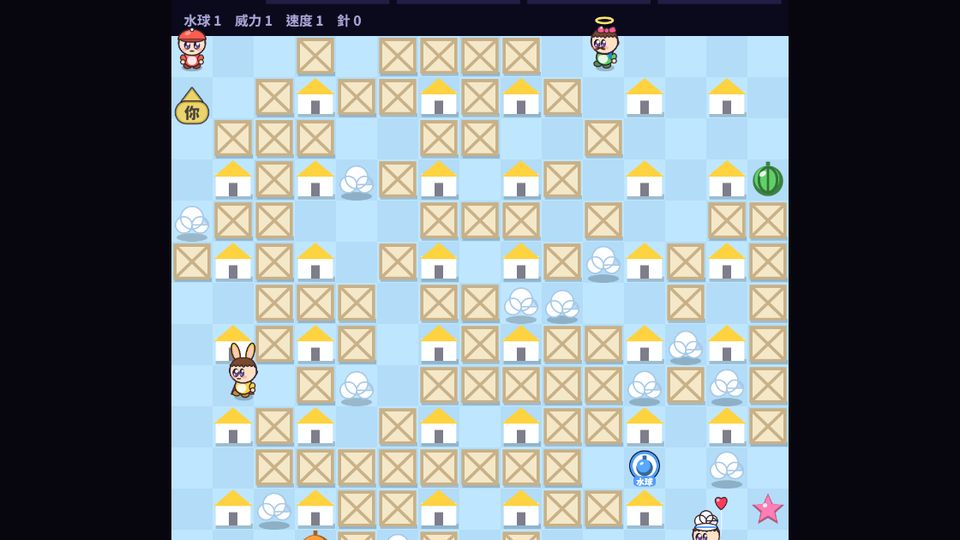
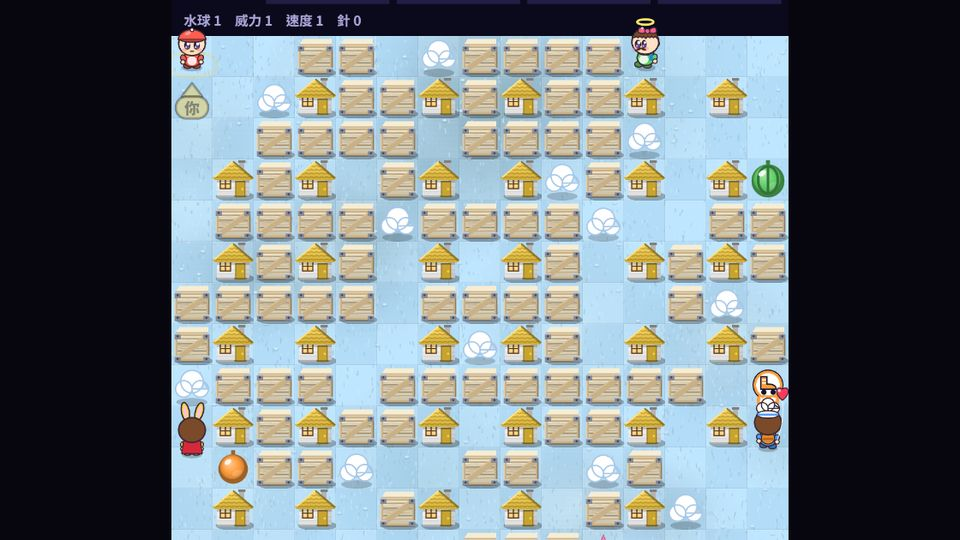
極速大亂鬥：車漆／金屬／玻璃加天空反光、草地高解析；水球炸翻天：地面、木箱、房子、水球重畫成有質感的樣子；兩款主視覺重拍

diff --git a/bomb.js b/bomb.js
@@ -233,7 +233,7 @@ function drawBalloon(ctx,cx,cy,t,r0,shape,col){
     ctx.fillStyle=c; ctx.beginPath(); for(let i=0;i<10;i++){ const a=-Math.PI/2+i*Math.PI/5,rr=(i%2?.42:.95)*r; ctx[i?'lineTo':'moveTo'](cx+Math.cos(a)*rr,cy+Math.sin(a)*rr); } ctx.closePath(); ctx.fill();
     ctx.fillStyle='rgba(255,255,255,.85)'; ctx.beginPath(); ctx.arc(cx-r*.2,cy-r*.25,r*.14,0,7); ctx.fill(); return; }
   ctx.fillStyle=mix(c,.62); ctx.beginPath(); ctx.arc(cx,cy+1,r,0,7); ctx.fill();
-  ctx.fillStyle=c; ctx.beginPath(); ctx.arc(cx-1,cy-1,r*.82,0,7); ctx.fill();
+  { const gq=ctx.createRadialGradient(cx-r*.35,cy-r*.4,r*.1,cx,cy,r*.9); gq.addColorStop(0,mix(c,1.45)); gq.addColorStop(.55,c); gq.addColorStop(1,mix(c,.78)); ctx.fillStyle=gq; ctx.beginPath(); ctx.arc(cx-1,cy-1,r*.82,0,7); ctx.fill(); ctx.fillStyle='rgba(255,255,255,.18)'; ctx.beginPath(); ctx.ellipse(cx+r*.25,cy+r*.35,r*.35,r*.18,-.5,0,7); ctx.fill(); }
   if(sh==='melon'){ ctx.strokeStyle=mix(c,.55); ctx.lineWidth=r*.16; for(const k of [-.5,0,.5]){ ctx.beginPath(); ctx.ellipse(cx,cy,Math.abs(k)*r*1.2+.01,r*.82,0,0,7); ctx.stroke(); } }
   ctx.fillStyle='rgba(255,255,255,.85)'; ctx.beginPath(); ctx.ellipse(cx-r*.35,cy-r*.4,r*.25,r*.16,-.6,0,7); ctx.fill();
   ctx.fillStyle=mix(c,.62); ctx.fillRect(cx-2,cy-r-3,4,4);
@@ -340,16 +340,52 @@ function drawRock(ctx,st,x,y,t){
     ctx.fillStyle='#8a5a2a'; ctx.fillRect(cx-4,cy+10,8,5); }
   else { ctx.fillStyle='#8a8f9e'; ctx.beginPath(); ctx.ellipse(cx,cy+2,15,13,0,0,7); ctx.fill(); ol(); }
 }
+/* ---- 有質感的地圖：地面、木箱、房子先畫成圖存起來（每張地圖畫一次） ---- */
+const SPR=new Map();
+function sprite(key,w,h,fn){ let c=SPR.get(key); if(!c){ c=document.createElement('canvas'); c.width=w*2; c.height=h*2; const g=c.getContext('2d'); g.scale(2,2); fn(g); SPR.set(key,c); } return c; }
+function srnd(seed){ let a=seed>>>0||1; return ()=>{ a=a+0x6D2B79F5|0; let t=Math.imul(a^a>>>15,1|a); t=t+Math.imul(t^t>>>7,61|t)^t; return ((t^t>>>14)>>>0)/4294967296; }; }
+const hkey=str=>{ let h=7; for(const ch of str) h=(h*31+ch.charCodeAt(0))|0; return h; };
+function floorTex(st){ return sprite('fl:'+st.name,COLS*T,ROWS*T,g=>{ const R=srnd(hkey(st.name)),W2=COLS*T,H2=ROWS*T;
+  for(let y=0;y<ROWS;y++) for(let x=0;x<COLS;x++){ g.fillStyle=st.g[(x+y)%2]; g.fillRect(x*T,y*T,T,T); }
+  for(let i=0;i<26;i++){ const x=R()*W2,y=R()*H2,r=40+R()*90,gr=g.createRadialGradient(x,y,0,x,y,r),lt=R()<.5; gr.addColorStop(0,lt?'rgba(255,255,230,.10)':'rgba(0,30,0,.08)'); gr.addColorStop(1,'rgba(0,0,0,0)'); g.fillStyle=gr; g.fillRect(x-r,y-r,r*2,r*2); } // 大片明暗
+  const d=mix(st.g[0],.82),l=mix(st.g[0],1.18);
+  for(let i=0;i<COLS*ROWS*26;i++){ const x=R()*W2,y=R()*H2; g.strokeStyle=R()<.55?d:l; g.globalAlpha=.35+R()*.4; g.lineWidth=1; g.beginPath(); g.moveTo(x,y); g.lineTo(x+(R()-.5)*3,y-2-R()*3); g.stroke(); } // 細細的草／砂紋
+  g.globalAlpha=1; for(let i=0;i<COLS*ROWS*.5;i++){ const x=R()*W2,y=R()*H2; g.fillStyle='rgba(0,0,0,.10)'; g.beginPath(); g.ellipse(x,y+1,2.4,1.4,0,0,7); g.fill(); g.fillStyle=mix(st.g[1],1.3); g.beginPath(); g.ellipse(x,y,2,1.3,0,0,7); g.fill(); } // 小石子
+  for(let y=0;y<ROWS;y++) for(let x=0;x<COLS;x++){ g.fillStyle='rgba(255,255,255,.07)'; g.fillRect(x*T,y*T,T,1); g.fillRect(x*T,y*T,1,T); g.fillStyle='rgba(0,0,0,.06)'; g.fillRect(x*T,y*T+T-1,T,1); g.fillRect(x*T+T-1,y*T,1,T); } }); }
+function crateTex(st){ return sprite('cr:'+st.b.join(),T,T,g=>{ const a=st.b[0],b=st.b[1],R=srnd(hkey(a));
+  g.fillStyle='rgba(0,0,0,.28)'; g.beginPath(); g.ellipse(T/2+2,T-4,T/2-2,5,0,0,7); g.fill();
+  // 上面（亮）
+  g.fillStyle=mix(a,1.22); g.beginPath(); g.moveTo(4,9); g.lineTo(8,3); g.lineTo(T-4,3); g.lineTo(T-4,9); g.closePath(); g.fill();
+  g.fillStyle=mix(b,1.05); g.fillRect(4,8,T-8,2);
+  // 正面：外框＋三片木板
+  const gr=g.createLinearGradient(0,10,0,T-3); gr.addColorStop(0,mix(a,1.06)); gr.addColorStop(1,mix(a,.82)); g.fillStyle=b; g.fillRect(3,9,T-6,T-12); g.fillStyle=gr; g.fillRect(6,12,T-12,T-18);
+  for(let k=1;k<3;k++){ const y=12+k*(T-18)/3; g.fillStyle='rgba(40,20,5,.35)'; g.fillRect(6,y-1,T-12,1.4); g.fillStyle='rgba(255,240,200,.18)'; g.fillRect(6,y+.6,T-12,1); }
+  g.strokeStyle='rgba(60,30,10,.22)'; g.lineWidth=.7; for(let i=0;i<9;i++){ const y=13+R()*(T-20); g.beginPath(); g.moveTo(6,y); g.bezierCurveTo(14,y+R()*2-1,26,y+R()*2-1,T-6,y); g.stroke(); } // 木紋
+  g.save(); g.beginPath(); g.rect(6,12,T-12,T-18); g.clip(); g.fillStyle=b; g.translate(T/2,12+(T-18)/2); g.rotate(-.62); g.fillRect(-T*.6,-3,T*1.2,6); g.fillStyle='rgba(255,240,200,.25)'; g.fillRect(-T*.6,-3,T*1.2,1.2); g.restore(); // 斜撐
+  g.fillStyle='rgba(255,245,215,.45)'; g.fillRect(3,9,T-6,1.2); g.fillRect(3,9,1.2,T-12); g.fillStyle='rgba(0,0,0,.3)'; g.fillRect(3,T-4,T-6,1.4); g.fillRect(T-4.2,9,1.2,T-12);
+  for(const [x,y] of [[3,9],[T-9,9],[3,T-9],[T-9,T-9]]){ g.fillStyle='#8a8e98'; g.fillRect(x,y,6,6); g.fillStyle='#c8ccd6'; g.fillRect(x,y,6,1.2); g.fillStyle='#4a4e58'; g.beginPath(); g.arc(x+3,y+3,1.1,0,7); g.fill(); } }); } // 鐵角
+function houseTex(st){ return sprite('hs:'+st.s.join(),T,T,g=>{ const roof=st.s[0],wall=st.s[1];
+  g.fillStyle='rgba(0,0,0,.28)'; g.beginPath(); g.ellipse(T/2+2,T-4,T/2-1,5,0,0,7); g.fill();
+  // 牆
+  const wg=g.createLinearGradient(0,15,0,T-3); wg.addColorStop(0,mix(wall,1.08)); wg.addColorStop(1,mix(wall,.86)); g.fillStyle=wg; g.fillRect(4,15,T-8,T-18);
+  g.fillStyle='rgba(0,0,0,.12)'; g.fillRect(T-11,15,7,T-18); g.fillStyle='rgba(0,0,0,.2)'; g.fillRect(4,T-5,T-8,2); // 側面暗、牆腳
+  for(let y=19;y<T-5;y+=4){ g.fillStyle='rgba(0,0,0,.05)'; g.fillRect(4,y,T-8,1); }
+  // 窗（暖光）＋門
+  const wl=g.createLinearGradient(8,20,8,29); wl.addColorStop(0,'#fff6c8'); wl.addColorStop(1,'#ffc860'); g.fillStyle='#5a3a22'; g.fillRect(7,19,11,10); g.fillStyle=wl; g.fillRect(8,20,9,8); g.fillStyle='#5a3a22'; g.fillRect(12,20,1,8); g.fillRect(8,23.5,9,1); g.fillStyle='rgba(255,255,255,.5)'; g.fillRect(8.6,20.6,2.5,2.4);
+  g.fillStyle=mix(roof,.6); g.fillRect(22,21,10,T-24); g.fillStyle=mix(roof,.78); g.fillRect(23,22,8,T-26); g.fillStyle='#ffd23f'; g.beginPath(); g.arc(29,29,1,0,7); g.fill(); g.fillStyle='rgba(0,0,0,.25)'; g.fillRect(21,T-5,12,1.5);
+  // 煙囪
+  g.fillStyle=mix(wall,.7); g.fillRect(T-14,2,5,10); g.fillStyle=mix(wall,.5); g.fillRect(T-15,1,7,2.5);
+  // 屋頂：漸層＋一排排瓦片＋屋脊亮線
+  g.save(); g.beginPath(); g.moveTo(0,18); g.lineTo(T/2,1.5); g.lineTo(T,18); g.lineTo(T-2,20); g.lineTo(2,20); g.closePath(); const rg=g.createLinearGradient(0,2,0,20); rg.addColorStop(0,mix(roof,1.18)); rg.addColorStop(1,mix(roof,.82)); g.fillStyle=rg; g.fill(); g.clip();
+  g.strokeStyle='rgba(0,0,0,.22)'; g.lineWidth=1; for(let y=6;y<21;y+=3.6){ g.beginPath(); for(let x=-4;x<T+4;x+=5){ g.moveTo(x,y); g.quadraticCurveTo(x+2.5,y+2.2,x+5,y); } g.stroke(); }
+  g.fillStyle='rgba(0,0,0,.18)'; g.beginPath(); g.moveTo(T/2,1.5); g.lineTo(T,18); g.lineTo(T,21); g.lineTo(T/2,4); g.closePath(); g.fill(); g.restore();
+  g.strokeStyle=mix(roof,1.4); g.lineWidth=1.4; g.beginPath(); g.moveTo(1.5,17.5); g.lineTo(T/2,2); g.stroke(); g.strokeStyle=mix(roof,.55); g.beginPath(); g.moveTo(T/2,2); g.lineTo(T-1.5,17.5); g.stroke();
+  g.fillStyle='rgba(0,0,0,.22)'; g.fillRect(4,20,T-8,2.5); }); } // 屋簷陰影
 function drawTile(ctx,st,v,x,y,gx,gy,t){
-  if(v===3){ ctx.fillStyle=st.g[(gx+gy)%2]; ctx.fillRect(x,y,T,T); drawRock(ctx,st,x,y,t); return; }
-  ctx.fillStyle=st.g[(gx+gy)%2]; ctx.fillRect(x,y,T,T);
-  if(v===1){ ctx.fillStyle='rgba(0,0,0,.18)'; ctx.fillRect(x+3,y+T-6,T-4,5);
-    ctx.fillStyle=st.s[1]; ctx.fillRect(x+3,y+14,T-6,T-18); ctx.fillStyle=st.s[0];
-    ctx.beginPath(); ctx.moveTo(x+1,y+17); ctx.lineTo(x+T/2,y+1); ctx.lineTo(x+T-1,y+17); ctx.fill();
-    ctx.fillStyle='rgba(20,18,43,.55)'; ctx.fillRect(x+16,y+23,8,13); }
-  else if(v===2){ ctx.fillStyle='rgba(0,0,0,.18)'; ctx.fillRect(x+3,y+T-5,T-4,4);
-    ctx.fillStyle=st.b[1]; ctx.fillRect(x+2,y+2,T-4,T-5); ctx.fillStyle=st.b[0]; ctx.fillRect(x+5,y+5,T-10,T-11);
-    ctx.strokeStyle=st.b[1]; ctx.lineWidth=3; ctx.beginPath(); ctx.moveTo(x+5,y+5); ctx.lineTo(x+T-5,y+T-6); ctx.moveTo(x+T-5,y+5); ctx.lineTo(x+5,y+T-6); ctx.stroke(); }
+  ctx.drawImage(floorTex(st),(gx%COLS)*T*2,(gy%ROWS)*T*2,T*2,T*2,x,y,T,T);
+  if(v===3){ drawRock(ctx,st,x,y,t); return; }
+  if(v===1) ctx.drawImage(houseTex(st),x,y,T,T);
+  else if(v===2) ctx.drawImage(crateTex(st),x,y,T,T);
 }
 
 function create(env,opts){

diff --git a/kart.js b/kart.js
@@ -757,9 +757,21 @@ function buildKart(T,L){
   for(const [x,y,z,r] of [[0,0,0,1.5],[1.3,-.2,.2,1.1],[-1.3,-.2,-.1,1.2],[.4,.5,-.3,1]]) add(new T.SphereGeometry(r,10,8),cm,x,y,z,0,0,0,cl);
   cl.position.set(0,5,1.2); cl.visible=false; g.add(cl);
   const bolt=add(new T.ConeGeometry(.5,2.2,4),new T.MeshBasicMaterial({color:0xffe14a}),0,4.8,0,PI); bolt.visible=false;
+  glossy(T,g); /* 車漆、金屬、玻璃反射天空：比較有質感 */
   g.userData={flame,shield:sd,cloud:cl,bolt,wheels,moto,shadow:shadowM,driver:dv,head:headG,anim};
   return g;
 }
+// 共用的反射環境（天空藍、地平線亮、地面暗），讓亮面材質有真實的反光
+let ENVMAP=null;
+function envMap(T){ if(ENVMAP) return ENVMAP; const face=k=>{ const c=document.createElement('canvas'); c.width=c.height=64; const x=c.getContext('2d');
+    if(k==='py'){ const g=x.createRadialGradient(32,32,4,32,32,46); g.addColorStop(0,'#5a6c82'); g.addColorStop(1,'#141e2c'); x.fillStyle=g; x.fillRect(0,0,64,64); }
+    else if(k==='ny'){ x.fillStyle='#101410'; x.fillRect(0,0,64,64); }
+    else { const g=x.createLinearGradient(0,0,0,64); g.addColorStop(0,'#141e2c'); g.addColorStop(.4,'#2e4258'); g.addColorStop(.49,'#f4f8ff'); g.addColorStop(.55,'#283028'); g.addColorStop(1,'#0c100c'); x.fillStyle=g; x.fillRect(0,0,64,64);
+      x.fillStyle='rgba(255,255,255,.9)'; x.fillRect(k==='px'||k==='nx'?10:40,6,14,26); } // 窗光反射的亮條
+    return c; };
+  ENVMAP=new T.CubeTexture(['px','nx','py','ny','pz','nz'].map(face)); ENVMAP.needsUpdate=true; return ENVMAP; }
+function glossy(T,g){ const env=envMap(T),done=new Set(); g.traverse(o=>{ const m=o.material; if(!m||done.has(m)||!m.isMeshPhongMaterial||m.envMap) return; done.add(m);
+  const sh=m.shininess||0; m.envMap=env; const chrome=sh>=130; m.combine=chrome?T.MixOperation:T.AddOperation; m.reflectivity=chrome?.5:sh>=80?.32:sh>=50?.2:.06; /* 鍍鉻用混合；車漆用疊加高光，不洗掉原本的顏色 */ m.needsUpdate=true; }); }
 // 「我的造型」裡可以拖曳旋轉的 3D 預覽
 function viewer(host,look){
   const T=window.THREE,r=new T.WebGLRenderer({antialias:true}),dpr=Math.min(window.devicePixelRatio||1,2);
@@ -1025,7 +1037,11 @@ function buildWorld(T,st,o){
   function cutDist(x,z){ if(!cut) return [1e9,0]; let bd=1e9,bk=0; for(let k=0;k<=cut.M;k++){ const d=(x-cut.cx[k])**2+(z-cut.cz[k])**2; if(d<bd){ bd=d; bk=k; } } return [Math.sqrt(bd),bk]; }
   const gap=s=>j=>cutDist(px[j]+nx[j]*s*(LIM+.6),pz[j]+nz[j]*s*(LIM+.6))[0]<cut.W+6; // 入口開寬一點，斜斜切進去也進得去
   ribbon(LIM+.6,0,LIM+.6,1.5,Math.round(len/8),wallMat,cut?gap(1):null); ribbon(-LIM-.6,0,-LIM-.6,1.5,Math.round(len/8),wallMat,cut?gap(-1):null);
-  const groundTex=tex(64,64,(c,w,h)=>{ c.fillStyle=st.ground[0]; c.fillRect(0,0,w,h); c.fillStyle=st.ground[1]; for(let i=0;i<90;i++) c.fillRect(Math.random()*w,Math.random()*h,4,4); if(GPAT[st.theme]) GPAT[st.theme](c,w,h); },220,220);
+  const groundTex=tex(256,256,(c,w,h)=>{ c.fillStyle=st.ground[0]; c.fillRect(0,0,w,h);
+    for(let i=0;i<14;i++){ const x=Math.random()*w,y=Math.random()*h,r=30+Math.random()*60; for(const [ox,oy] of [[0,0],[w,0],[-w,0],[0,h],[0,-h]]){ const gr=c.createRadialGradient(x+ox,y+oy,0,x+ox,y+oy,r); gr.addColorStop(0,Math.random()<.5?'rgba(255,255,220,.09)':'rgba(0,0,0,.09)'); gr.addColorStop(1,'rgba(0,0,0,0)'); c.fillStyle=gr; c.fillRect(x+ox-r,y+oy-r,r*2,r*2); } } // 大片明暗（接縫處也連得上）
+    c.fillStyle=st.ground[1]; for(let i=0;i<700;i++) c.fillRect(Math.random()*w,Math.random()*h,2+Math.random()*3,2+Math.random()*3);
+    for(let i=0;i<2200;i++){ c.fillStyle=Math.random()<.5?'rgba(255,255,255,'+(Math.random()*.08)+')':'rgba(0,0,0,'+(Math.random()*.1)+')'; c.fillRect(Math.random()*w,Math.random()*h,1,2+Math.random()*3); } // 細草葉／砂粒
+    if(GPAT[st.theme]) for(const [ox,oy] of [[0,0],[128,0],[0,128],[128,128]]){ c.save(); c.translate(ox,oy); GPAT[st.theme](c,128,128); c.restore(); } },110,110);
   const ground=new T.Mesh(new T.PlaneGeometry(2400,2400),new T.MeshLambertMaterial({map:groundTex})); ground.rotation.x=-Math.PI/2; ground.position.set((minX+maxX)/2,0,(minZ+maxZ)/2); scene.add(ground);
   const h0=Math.atan2(tx[0],tz[0]);
   function flat(w,d,mat,i,y){ const m=new T.Mesh(new T.PlaneGeometry(w,d),mat); m.rotation.order='YXZ'; m.rotation.y=Math.atan2(tx[i],tz[i]); m.rotation.x=-Math.PI/2; m.position.set(px[i],y,pz[i]); scene.add(m); return m; }

diff --git a/index.html b/index.html
@@ -298,7 +298,7 @@ body.padswap #pad{flex-direction:row-reverse} /* 方向鍵放右邊 */
 <div id="modal" hidden><div class="card" id="mcard"></div></div>
 
 <script>
-window.ARCADE_V=311; // 每次改版加一
+window.ARCADE_V=312; // 每次改版加一
 (function(){ var q=/github\.io$/.test(location.hostname)?'?v='+window.ARCADE_V:'';
   document.write(['stairs','kart','bomb','volley','dodge3d','dodge','soccer3d','soccer','bowl3d','bowl','baseball3d','baseball','purple','rummy','mahjong','meow','poker','dice','deliver3d','deliver','chess','qi','racer','brawl','bball3d','bball','h3d','golf3d','golf','pool3d','pool','blocks','drum','dance','tower','jelly','rich','space','royale','draw','wolf','passbomb','bubble','claw','tank','dash','spin','night','chase3d','chase','sumo','sky','boxing','ace','classic','hide','spy','sling','room','boomcode','tug','truth','charades','party','gems','chair','tacit','piano','stroke','dragon','badminton','cook','fish','pickleball','tennis','pingpong','racket'].map(function(n){ return '<script src="'+n+'.js'+q+'"><\/script>'; }).join('')); })();
 </script>
